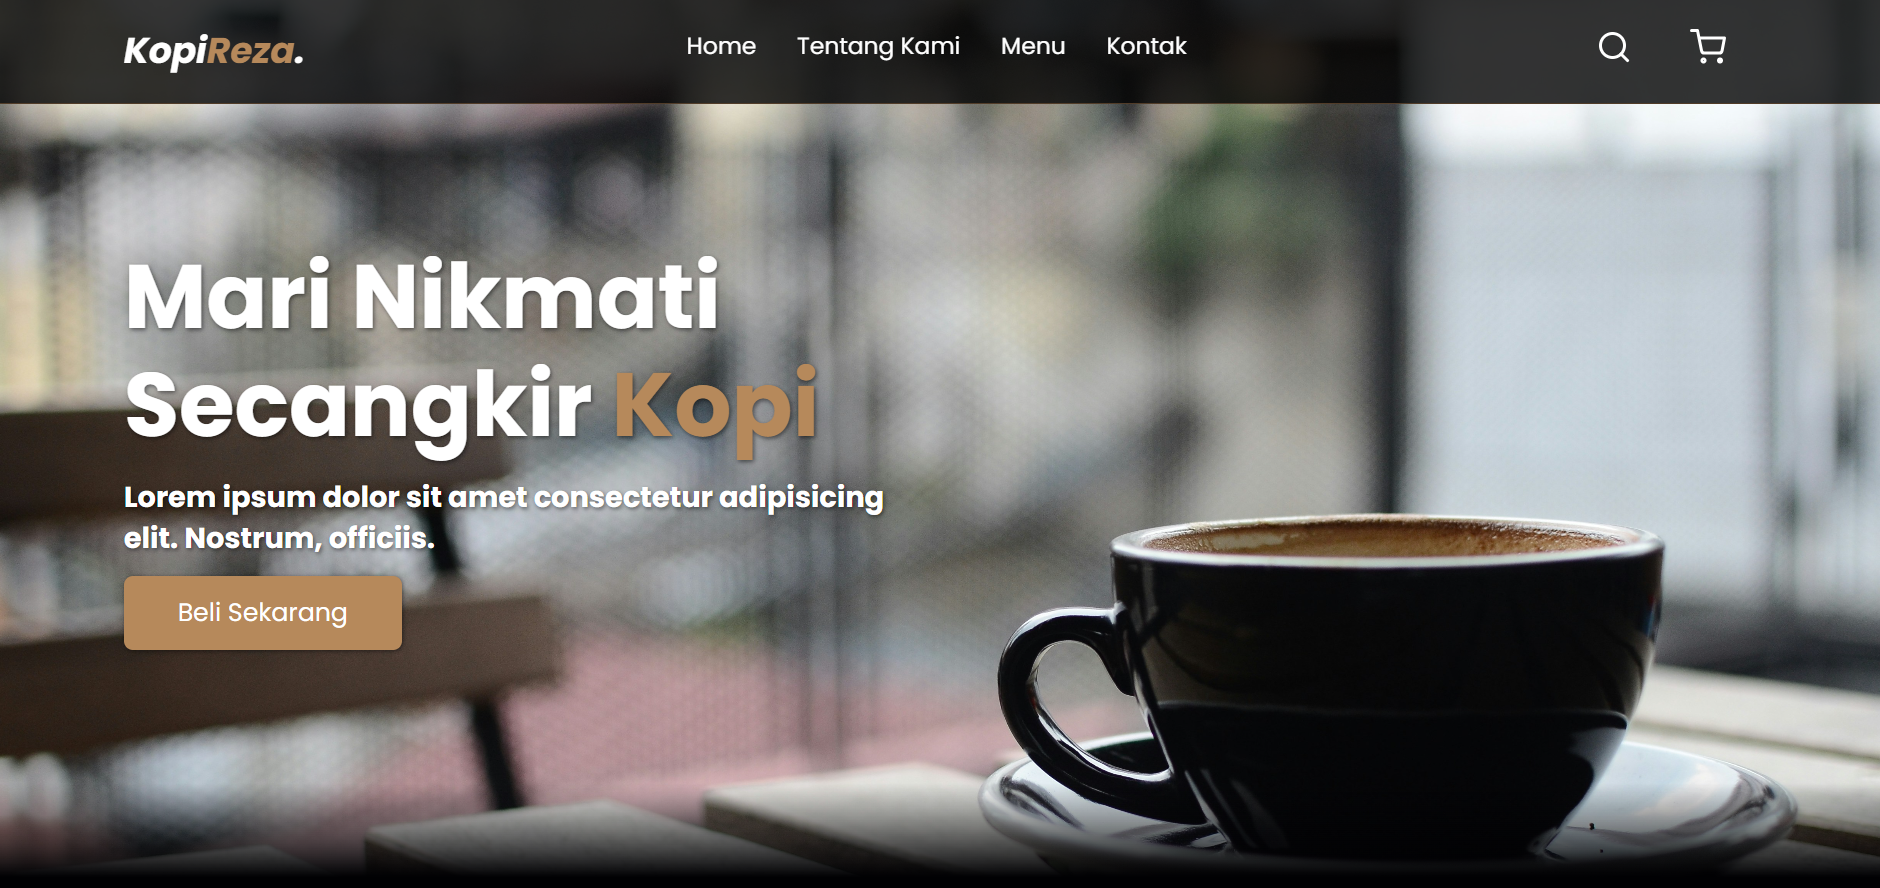
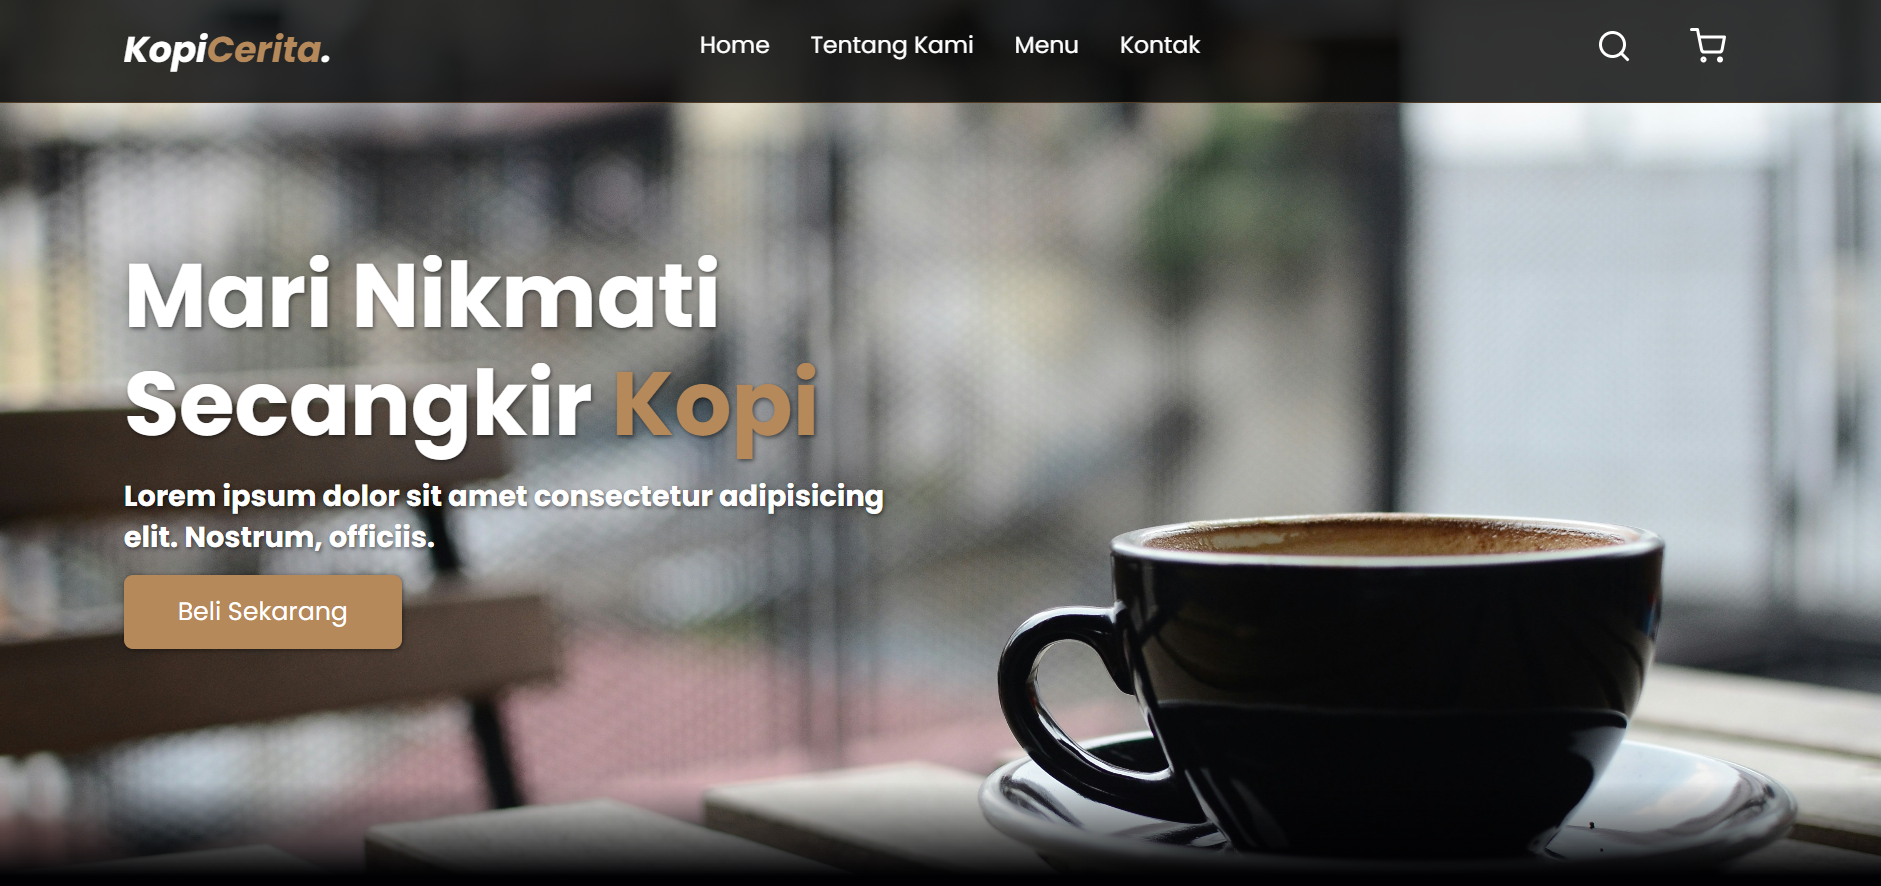
update index

diff --git a/index.html b/index.html
@@ -261,7 +261,7 @@
                         </div>
                         <div class="card-body">
                             <p class="card-text" style="margin-bottom: 40px;">
-                                Aplikasi KopiReza Berbasis Website.
+                                Aplikasi Kopi Cerita Berbasis Website.
                             </p>
                           <p class="card-text">
                             <button class="btn btn-danger btn-sm">Masih Tahap Development.</button>
